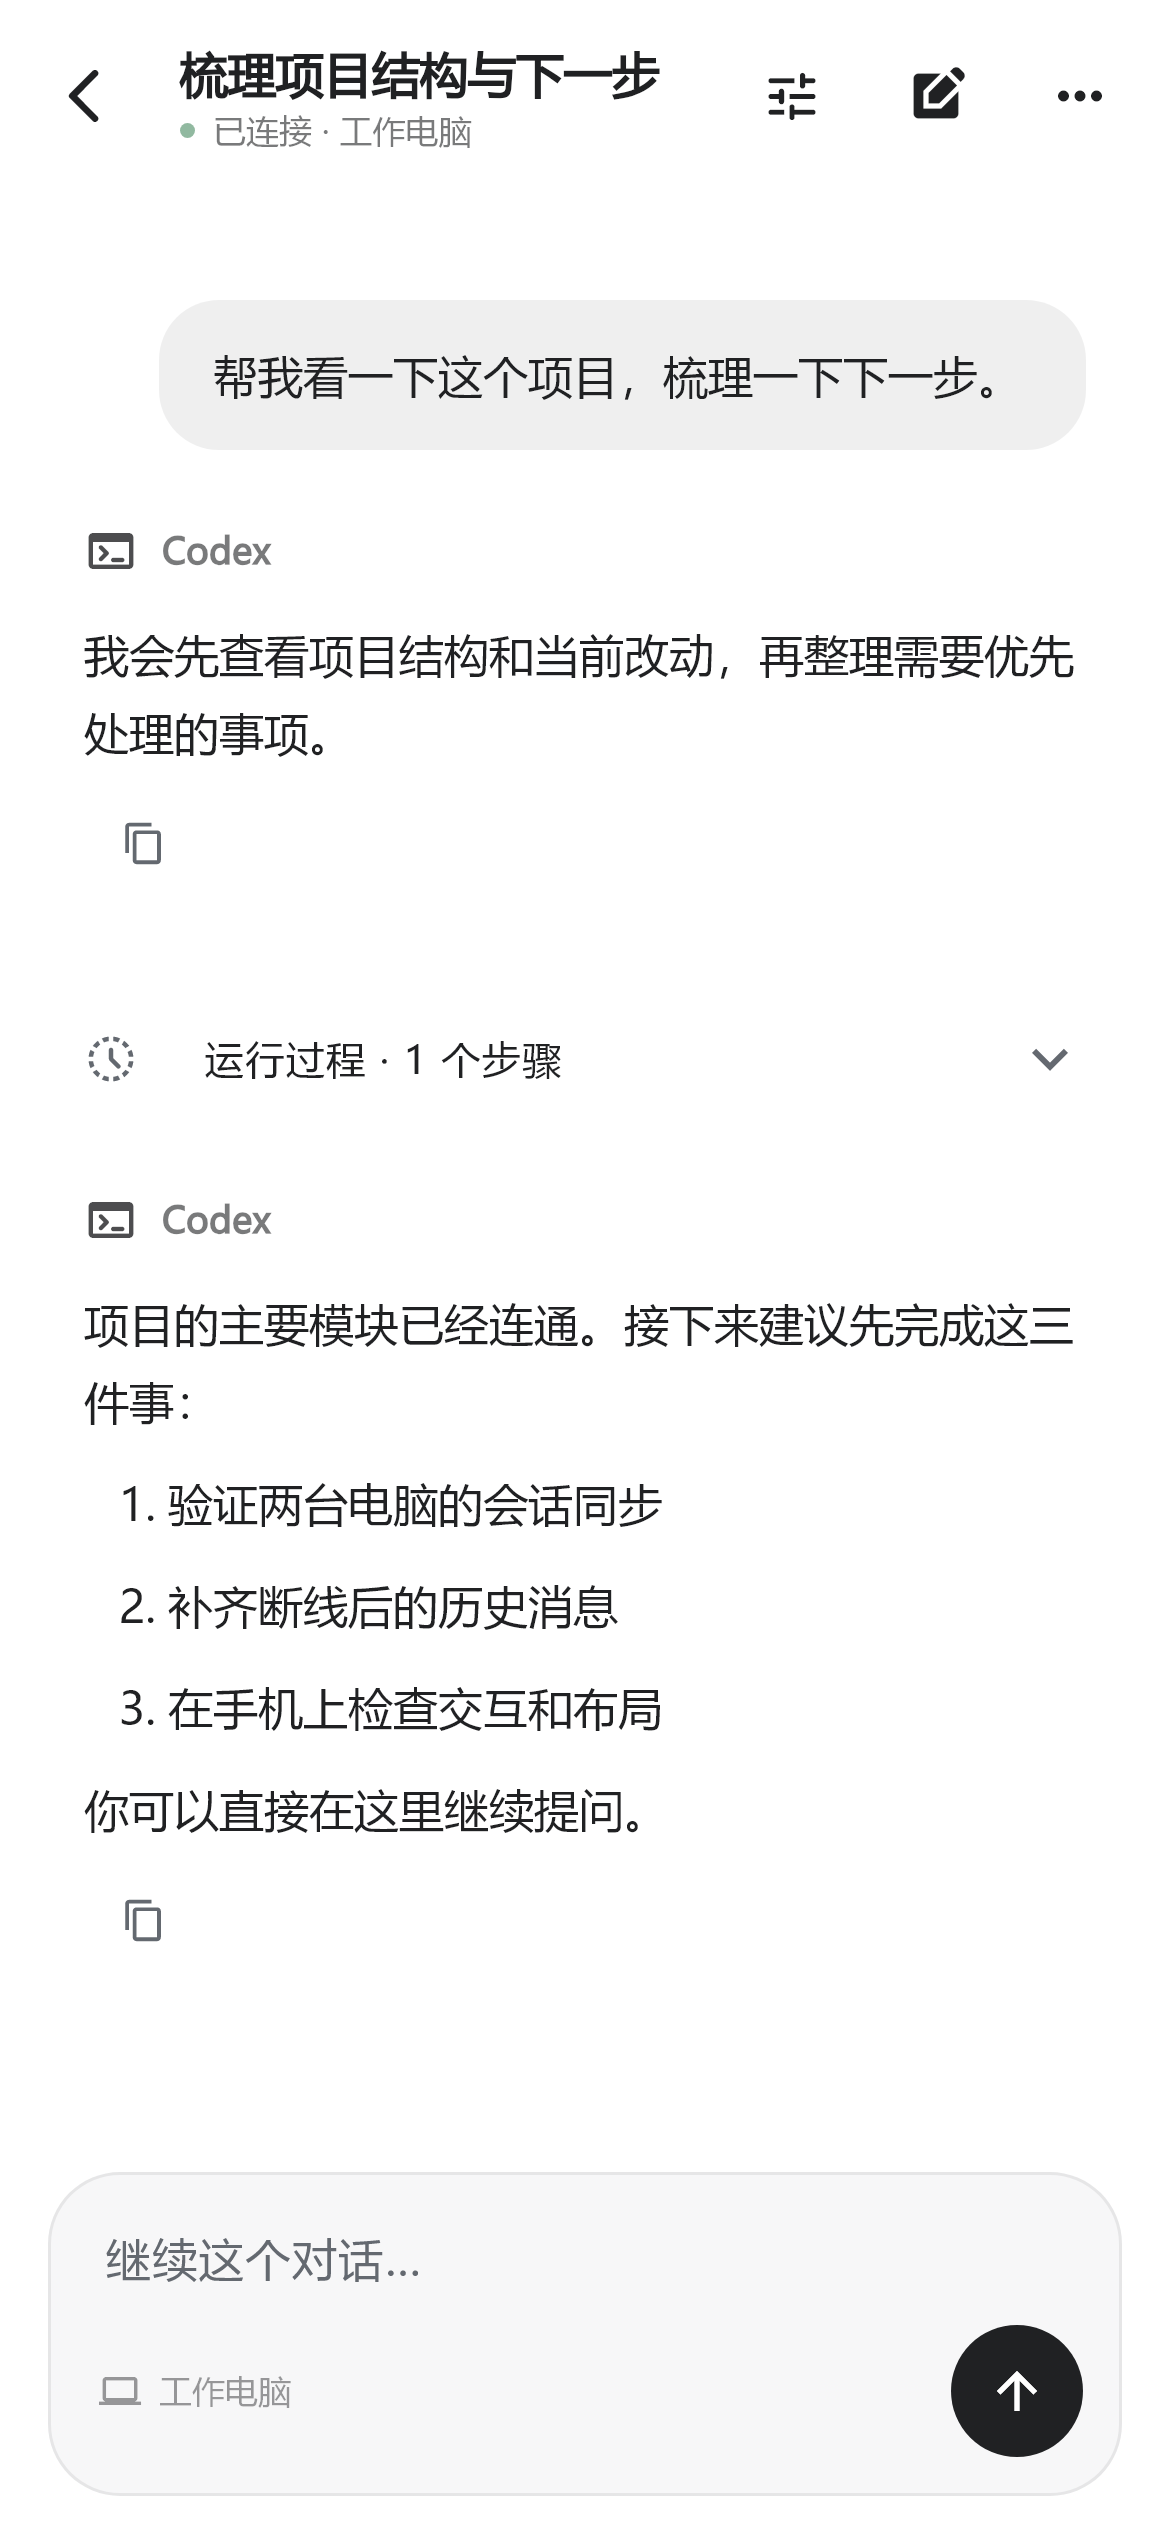
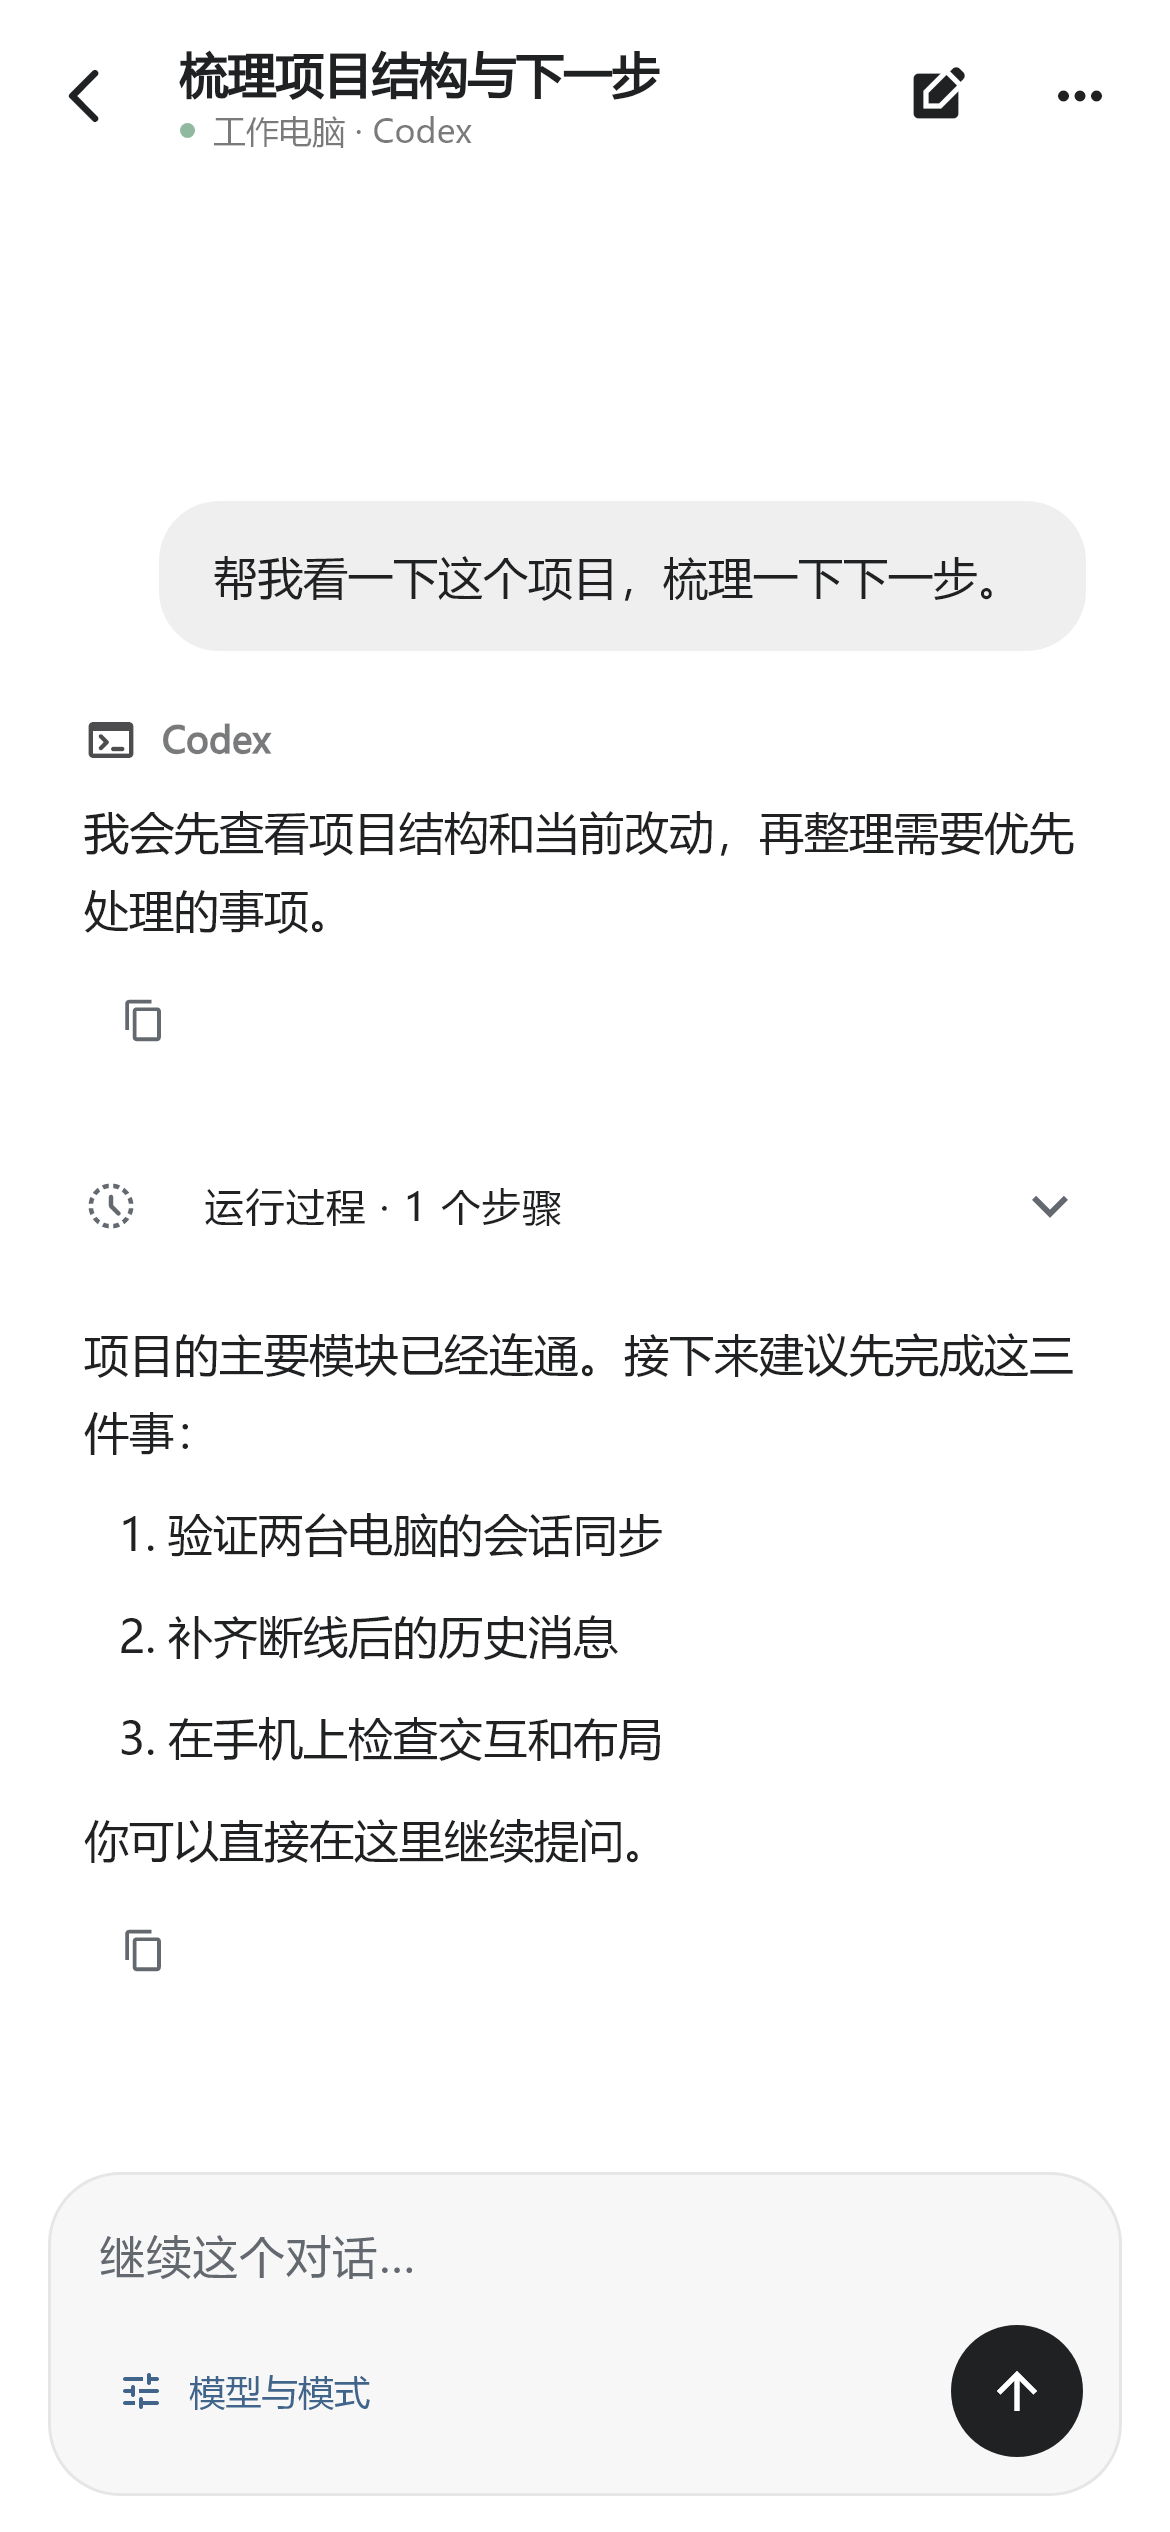
Document 0.2.7 composer and predictions with refreshed screenshots

diff --git a/docs/UPDATES.md b/docs/UPDATES.md
@@ -1,6 +1,6 @@
 # 更新与版本
 
-当前版本：Android 0.2.6（9） / Windows 0.4.4。
+当前版本：Android 0.2.7（10） / Windows 0.4.5。
 
 [下载最新版本](https://github.com/LeftSeineM/Mydex-mobile/releases/latest) · [首页](../README.md)
 
@@ -39,3 +39,16 @@
 公开仓库不包含应用源码或私人配置。此前已公开源码的历史授权不因仓库迁移而撤销；本页不重新授予其他版权。第三方开源组件的声明随软件保留。
 
 反馈邮箱：[348897402@qq.com](mailto:348897402@qq.com)。不要公开令牌、配对文本或模型 API Key。
+
+## Android 0.2.7 / Windows 0.4.5
+
+- 优化浅色对话排版、重复标签、折叠屏侧栏和电脑选择。
+- 模型与模式入口移到输入框；保留字体大小、草稿和运行步骤折叠。
+- 新增可选下一步建议：设置开启后手动获取，采用或 Tab 填入草稿，不自动发送。
+- 预测由电脑配置的兼容模型生成，手机不保存模型密钥；默认关闭，可能产生模型 API 用量。
+- 本功能是 Mydex 自身实现，原 Codex 预测服务和完整 1:1 映射尚未接入。
+- 手机、折叠屏和预测输入截图已保留并更新手册。
+
+验证：25 项 Flutter 功能测试、视觉截图检查、27 项网关测试通过（另 1 项 Unix 专用测试在 Windows 跳过）；Android release 签名沿用旧版。未在实体安卓手机上复验键盘与安装。
+
+下一步建议的使用与电脑配置见 [功能图解](FEATURES.md)。

diff --git a/docs/SCREENSHOTS.md b/docs/SCREENSHOTS.md
@@ -81,3 +81,9 @@ Windows 客户端截图
 专用测试会话
 
 <img src="images/zcode-glm-conversation.png" width="900" />
+
+## 0.2.7 输入建议
+
+![可选下一步建议，采用后成为草稿](images/prediction.png)
+
+以上为演示数据渲染，不是用户私人对话。

diff --git a/docs/GETTING-STARTED.md b/docs/GETTING-STARTED.md
@@ -1,6 +1,6 @@
 # 安装与扫码配对
 
-适用 Android 0.2.5 / Windows 0.4.4 · 2026-10-30
+适用 Android 0.2.7 / Windows 0.4.5 · 2026-10-30
 
 [首页](../README.md) · [下载](https://github.com/LeftSeineM/Mydex-mobile/releases/latest) · [功能图解](FEATURES.md)
 
